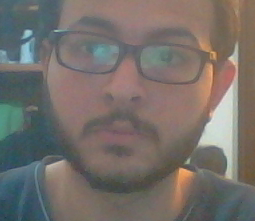
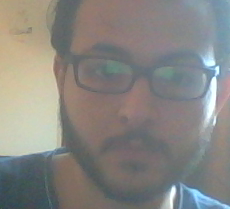
added camera after request

diff --git a/templates/index.html b/templates/index.html
@@ -219,7 +219,7 @@ a.animated-button.victoria-two:after {
 
 
 <div class="divcontainer">
-    <video  id="inputVideo" autoplay muted ></video>
+    <video  onplay="onPlay(this)" id="inputVideo" autoplay muted ></video>
     <canvas id="overlay"/>
 </div>
 <div class="right">
@@ -248,12 +248,27 @@ a.animated-button.victoria-two:after {
   //       </div>
   //   </div>
 
-
 $(document).ready(function() {
-  faceapi.loadTinyFaceDetectorModel('https://www.rocksetta.com/tensorflowjs/saved-models/face-api-js/')
+
+
  })
+
+
 async function run() {
-  
+  faceapi.loadTinyFaceDetectorModel('https://www.rocksetta.com/tensorflowjs/saved-models/face-api-js/')
+
+  const videoEl = document.getElementById('inputVideo')
+  const stream = await navigator.mediaDevices.getUserMedia({ video: true })
+
+    //navigator.mediaDevices.getUserMedia( {video: true})
+    //.then((stream) => {
+  videoEl.srcObject = stream;
+  onPlay(videoEl)
+
+  //  }).catch((err) => {console.log(err);});
+
+
+   
   //await faceapi.loadTinyFaceDetectorModel("{{ url_for('static', filename='models/')}}")
   //await faceapi.loadFaceRecognitionModel("{{ url_for('static', filename='models/')}}")
   //await faceapi.loadMtcnnModel("{{ url_for('static', filename='models/')}}")
@@ -262,13 +277,8 @@ async function run() {
 
   //await faceapi.loadFaceLandmarkTinyModel('https://www.rocksetta.com/tensorflowjs/saved-models/face-api-js/')
 
-  const videoEl = document.getElementById('inputVideo')
 
-  navigator.getUserMedia(
-    { video: {} },
-    stream => videoEl.srcObject = stream,
-    err => console.error(err)
-  )
+  
 
   //const alignedFaceTensors = await extractFaceTensors(input, alignedFaceBoxes)
 
@@ -330,8 +340,8 @@ function drawDetections(dimensions, canvas, results) {
     var crop = {
       top : dim_y,
       left : dim_x,
-      width : dim_width,
-      height : dim_height,
+      width : dim_width ,
+      height : dim_height ,
     }
     
     var canvas_cropped = document.createElement("canvas");
@@ -391,7 +401,7 @@ async function onPlay(videoEl) {
   //const detectionsArray = fullDesc.map(res => res.faceDetection)
   //faceapi.drawDetection('overlay',detectionsArray, { withScore: false })
   //faceapi.drawLandmarks('overlay', mtcnnResults.map(res => res.faceLandmarks), { lineWidth: 4, color: 'red' })
-  setTimeout(() => onPlay(videoEl),2000)
+  setTimeout(() => onPlay(videoEl),200)
 }
   
 
@@ -420,9 +430,9 @@ async function onPlay(videoEl) {
 
 document.getElementById("snap").addEventListener("click", function() {
   run()
+
   //window.setInterval(function(){
-  const videoEl = document.getElementById('inputVideo')
-  onPlay(videoEl)
+ 
     //("#res").show();
    //}, 5000);
 
